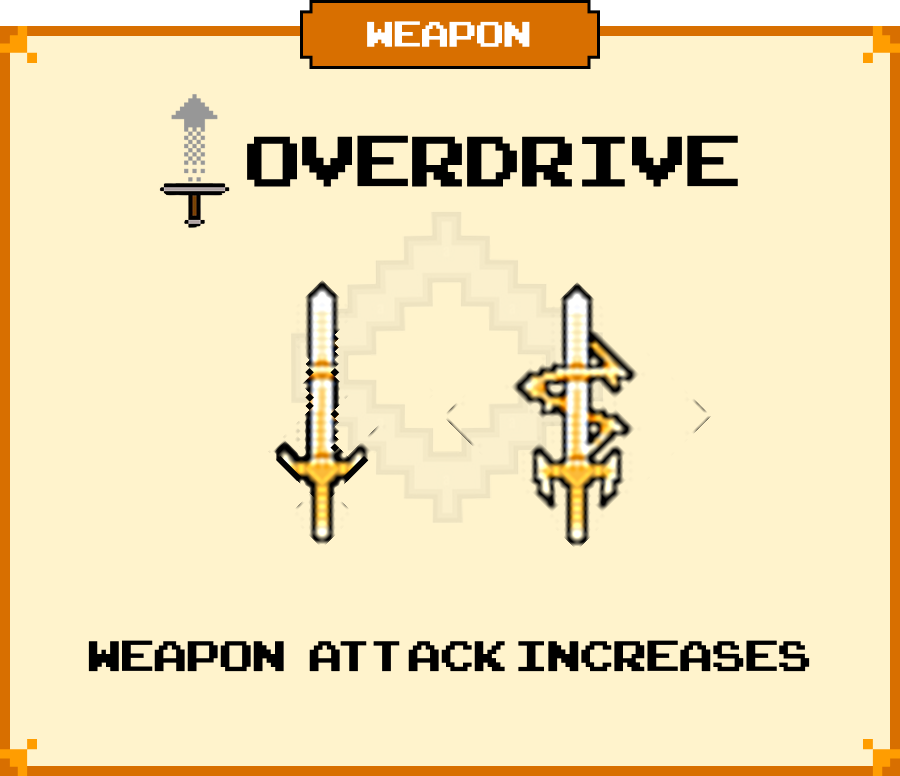
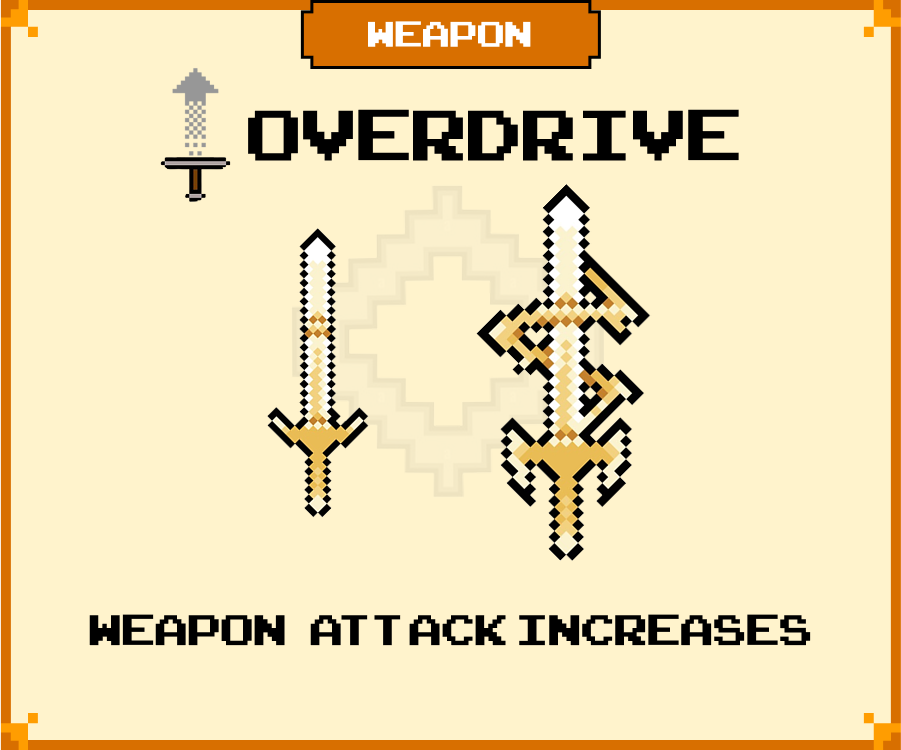
fix: bug and img

diff --git a/Assets/Scripts/Monster/Boss.cs b/Assets/Scripts/Monster/Boss.cs
@@ -40,13 +40,11 @@ public class Boss : MonsterBase {
         ability.SetHP(10000f);
         ability.SetMaxHP(10000f);
         ability.SetAS(0.5f); // attack per second
-        ability.SetAR(6.5f); // attack range
+        ability.SetAR(6.25f); // attack range
         ability.SetMS(5f); // move speed
         ability.SetLifeTime(2f); // proj lifetime
         ability.SetExp(0);
-        _rangeOffset = 2f;
         _counterAlertSR = _counterAlert.GetComponent<SpriteRenderer>();
-        //_effectSprite = _redLight.GetComponent<SpriteRenderer>();
     }
 
     protected override void OnEnable() {

diff --git a/Assets/Scripts/Weapon/ThunderBolt.cs b/Assets/Scripts/Weapon/ThunderBolt.cs
@@ -13,9 +13,6 @@ public class ThunderBolt : WeaponProjBase, IBattle {
     [SerializeField]
     private GameObject _thunderPref;
 
-    [SerializeField]
-    private Slider _coolBar;
-
     protected override void Initialize() {
         base.Initialize();
         Weapon.I.OnTouchDown += HandleOnTouchDown;
@@ -37,7 +34,6 @@ public class ThunderBolt : WeaponProjBase, IBattle {
                 _elapsed = 0f;
                 StartCoroutine(SpawnThunder(0.2f));
             }
-            _coolBar.value = _elapsed / _attackDuration;
         }
     }
 

diff --git a/Assets/Scripts/Monster/YellowMeleeMob.cs b/Assets/Scripts/Monster/YellowMeleeMob.cs
@@ -12,7 +12,6 @@ public class YellowMeleeMob : MonsterBase
         ability.SetMS(1.25f);
         ability.SetLifeTime(0.2f);
         ability.SetExp(GM.I.MobData["YellowMelee"].Exp);
-        _rangeOffset = 0.5f;
     }
 
     protected override void OnEnable() {

diff --git a/Assets/Scripts/Monster/YellowRangedMob.cs b/Assets/Scripts/Monster/YellowRangedMob.cs
@@ -12,7 +12,6 @@ public class YellowRangedMob : MonsterBase
         ability.SetMS(1.25f);
         ability.SetLifeTime(4f);
         ability.SetExp(GM.I.MobData["YellowRanged"].Exp);
-        _rangeOffset = 0.5f;
     }
 
     protected override void OnEnable() {

diff --git a/Assets/Scripts/Monster/BlueMeleeMob.cs b/Assets/Scripts/Monster/BlueMeleeMob.cs
@@ -13,7 +13,6 @@ public class BlueMeleeMob : MonsterBase {
         ability.SetMS(1.25f);
         ability.SetLifeTime(0.2f);
         ability.SetExp(GM.I.MobData["BlueMelee"].Exp);
-        _rangeOffset = 0.5f;
     }
 
     protected override void OnEnable() {

diff --git a/Assets/Scripts/Monster/GreenMeleeMob.cs b/Assets/Scripts/Monster/GreenMeleeMob.cs
@@ -12,7 +12,6 @@ public class GreenMeleeMob : MonsterBase
         ability.SetMS(1.25f);
         ability.SetLifeTime(0.2f);
         ability.SetExp(GM.I.MobData["GreenMelee"].Exp);
-        _rangeOffset = 0.5f;
     }
 
     protected override void OnEnable() {

diff --git a/Assets/Scripts/Monster/GreenRangedMob.cs b/Assets/Scripts/Monster/GreenRangedMob.cs
@@ -12,7 +12,6 @@ public class GreenRangedMob : MonsterBase
         ability.SetMS(1.25f);
         ability.SetLifeTime(4f);
         ability.SetExp(GM.I.MobData["GreenRanged"].Exp);
-        _rangeOffset = 0.5f;
     }
 
     protected override void OnEnable() {
